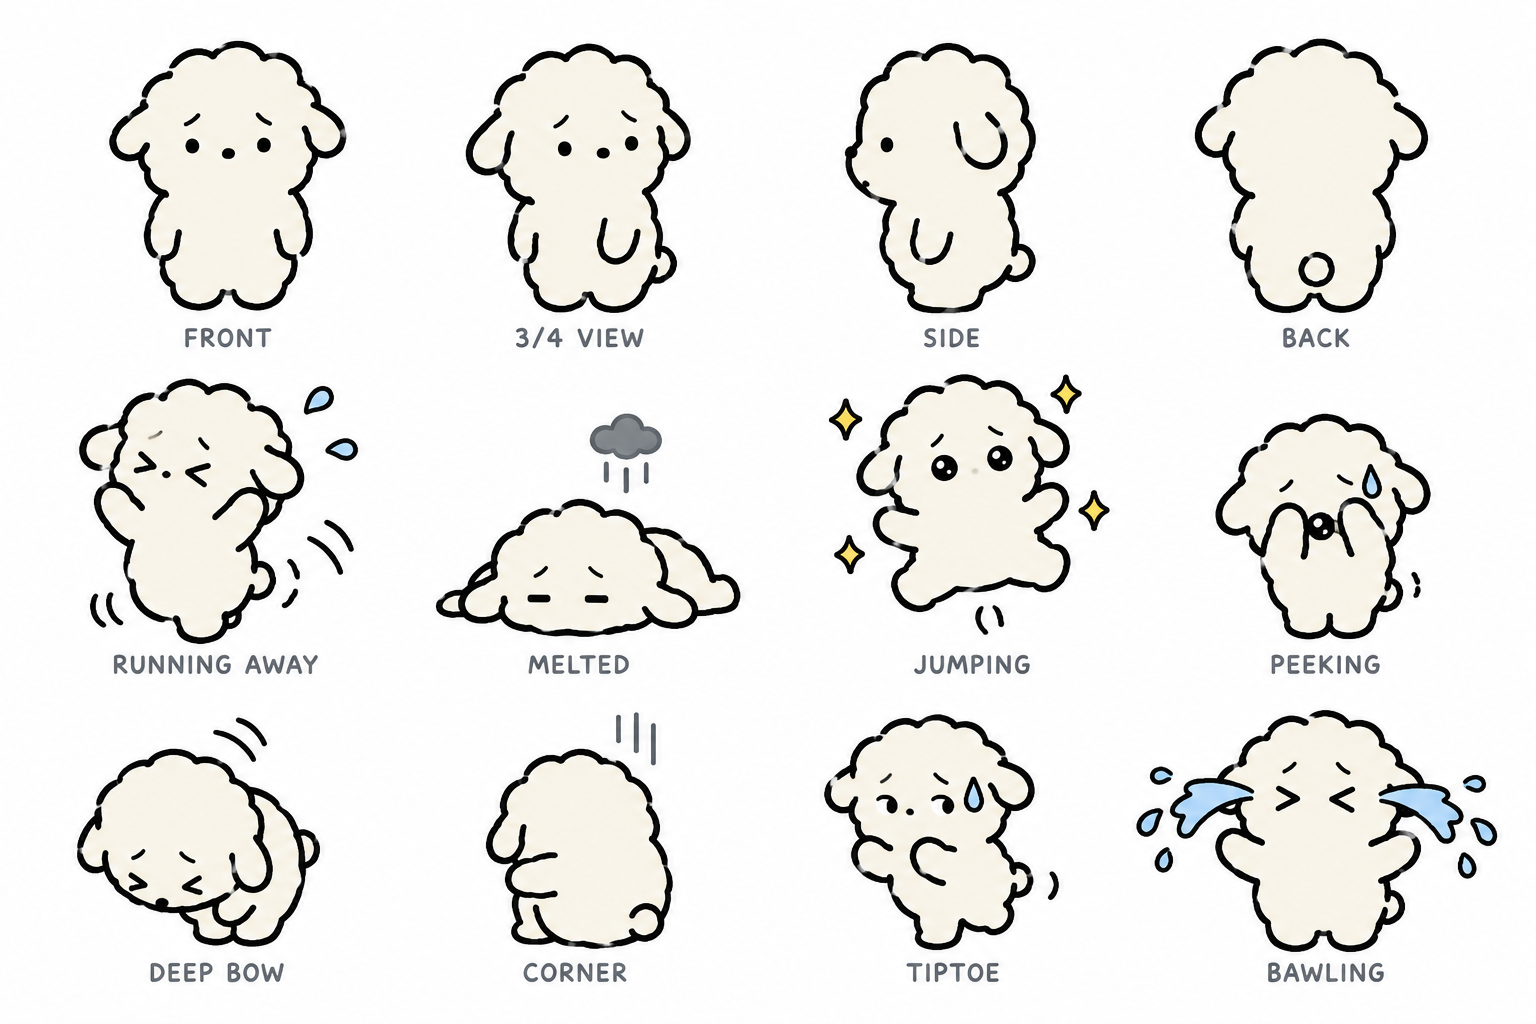
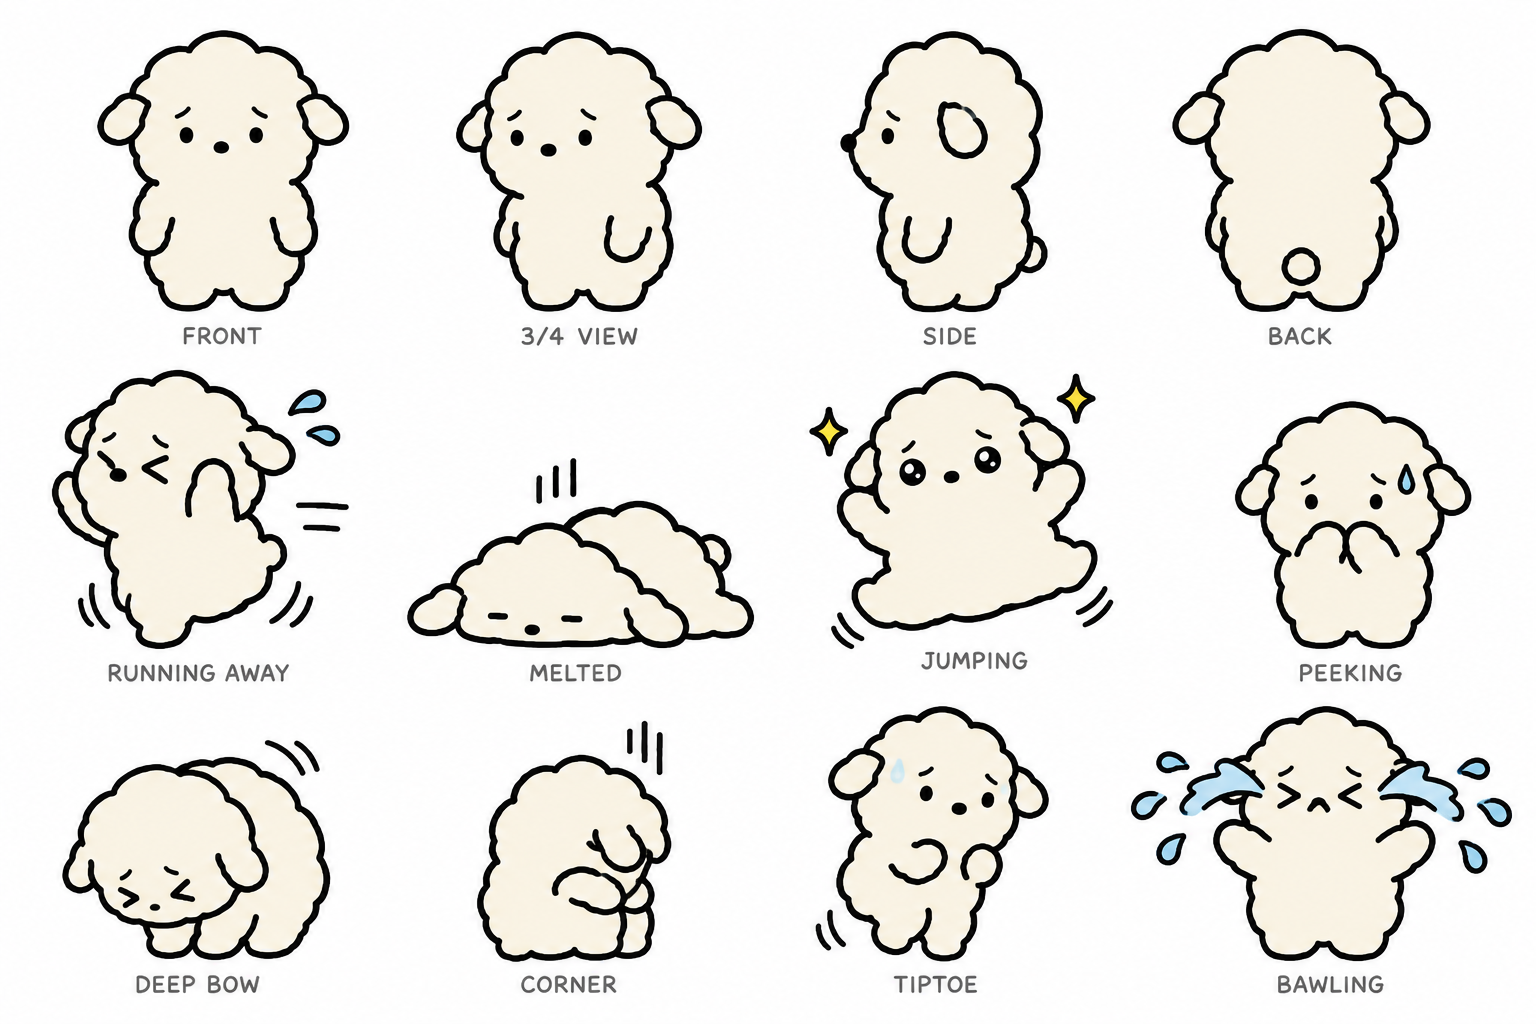
두부 시트 재생성: 단색 펜선 샘플 기반, 측면 눈썹·입 없음, 먹구름 제거, 코·눈 위치 수정

diff --git a/assets/samples/dubu-sheet.html b/assets/samples/dubu-sheet.html
@@ -18,15 +18,19 @@
 <body>
 <main>
   <h1>두부 캐릭터 시트 (확정 참조)</h1>
-  <p class="sub">gpt-image-2.5-sunburst · medium · 1536×1024 · $0.029 · 참조: 기본 표정 컨셉 시트(1번 걱정 눈썹 채택) + 깜자 1장 · 프롬프트: <a href="dubu-sheet-prompt.txt">dubu-sheet-prompt.txt</a></p>
+  <p class="sub">gpt-image-2.5-sunburst · medium · 1536×1024 · $0.029 · 참조: 선 샘플(아래) + 깜자 1장 · 프롬프트: <a href="dubu-sheet-prompt.txt">dubu-sheet-prompt.txt</a></p>
   <img src="dubu-sheet.png" alt="두부 캐릭터 시트">
   <ul>
+    <li>선은 매끈한 단색 펜선, 흔들림은 경로에만(얼룩·끊김 금지). 먹구름은 시트에 넣지 않음.</li>
     <li>1행 턴어라운드: 정면 · 3/4 · 측면 · 뒷모습. 2행: 도망 · 녹아내림 · 점프 · 손 틈 엿보기. 3행: 90도 사과 · 구석 · 까치발 · 통곡.</li>
     <li>크림 #F6F2E6 단색, 구름형 외곽선, 살짝 처진 작은 귀, 코 점, 입 없음, 블러셔 없음. 기본 얼굴은 점 눈 + <b>걱정 눈썹 2획</b>(안쪽 올라감) 고정. 눈은 감정에 따라 초롱초롱·&gt;.&lt;·호·대시로 바뀔 수 있음. 자세는 과장·코믹 허용.</li>
     <li>기본 표정 후보 10안 비교: <a href="dubu-face-concepts.html">dubu-face-concepts.html</a></li>
     <li>망토 등 소품은 시트에 넣지 않는다 — 에피소드별로 따로 지정.</li>
     <li>이후 모든 컷 생성 시 이 이미지를 첫 번째 참조로 넣는다.</li>
   </ul>
+  <h2 style="font-size:15px;font-weight:400;margin:28px 0 8px">선 샘플 (시트 생성의 캐릭터 참조)</h2>
+  <img src="dubu-line-sample.png" alt="두부 선 샘플" style="max-width:640px">
+  <p class="sub">옛 시트 + 깜자 1장 참조로 정면·측면만 먼저 뽑아 선 품질을 확정한 뒤, 이 이미지만 캐릭터 참조로 넣어 시트를 생성. 프롬프트: <a href="dubu-line-sample-prompt.txt">dubu-line-sample-prompt.txt</a></p>
 </main>
 </body>
 </html>
